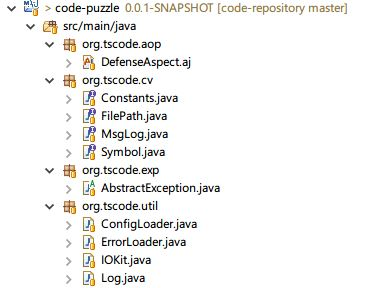
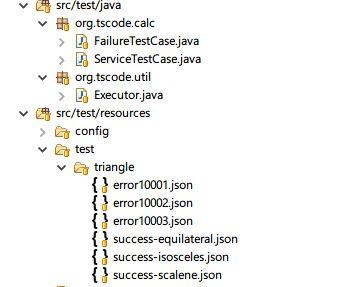
Finish the first topic document

Changed region(s): [[0.0289, 0.0, 0.896, 1.0]]

diff --git a/code-puzzle/README.md b/code-puzzle/README.md
@@ -21,7 +21,7 @@ This program is built with three modules
 
 ### 2.Configurations
 
-**Structure**
+#### 2.1.Structure
 
 	/aop/aopaj-test.properties
 	/aop/aopaj.properties
@@ -35,7 +35,7 @@ This program is built with three modules
 ![TG](docs/img/tg001.JPG)
 * **config/errors.properties**：Provide uniform error format, ( code = pattern ), all errors are defined in this file and could be configured. It's using for Debug or some errors could be put in web response to user.
 
-**Package**
+#### 2.2.Package
 
 * `org.tscode.aop`：Special package to provide all AOP features
 * `org.tscode.cv`：Constant values, all constant values are implemented with Java Interface
@@ -43,3 +43,83 @@ This program is built with three modules
 * `org.tscode.util`：Utility Tools
 * `org.tscode.shape`：All abstract shape features include Point, Line, VectorLine, Traingle ( Container ) here.
 * `org.puzzle`：All classes for current **Triangle Challenge** Topic only.
+
+#### 2.3.Core Model
+
+Package:`org.tscode.shape.core`
+
+* `Point<P>`：Include x,y,z position to provide basic point model, `P` is generic type to define any data to store in.
+* `Line<L>`：This model is only for some simple lines, the line contains `length` property, `L` is generic type to define any data to store in.
+* `VectorLine<P,L>`:This model inherit from `Line<L>`, it contains two `Point<P>` and could describe Vector, Line, Planum etc.
+* `Response`：This model contains two major parts: Data & Error, data is `Json` format and raw type of Error is AbstractException that also could be converted to `Json` format.
+
+#### 2.4.Interfaces
+
+Package:`org.puzzle`
+
+* `TriangleService`: This interface is often called by Restful Api or other high level code, based on package name it's related to **Triangle Challenge** topic
+
+Package:`org.tscode.shape`
+
+* `Calculator`：This interface provide logical process to describe how to calculate `P` in Point and `L` in Line/VectorLine. It could be replaced by different implementation. In **Triangle Challenge** topic, I defined `org.puzzle.triangle.CatCalculator` to determine whether this triangle is **Equilateral**, **Isosceles** or **Scalene**. 
+* `Planum`：Provide following two simple api to create `Shape<P,L>`, it's not generic type but provide generic method to create different Shape by Sides/Points.
+
+		/**
+		 * Create Shape -> By Sides
+		 * 
+		 * @param sides
+		 * @return
+		 */
+		<P, L> Shape<P, L> create(final int... sides) throws AbstractException;
+	
+		/**
+		 * Create Planum -> By Points
+		 * 
+		 * @param points
+		 * @return
+		 */
+		<P, L> Shape<P, L> create(final Point<P>[] points) throws AbstractException;
+* `Shape<P,L>`: Abstract Shape interface to provide basic metadata getting methods for Shape such as `getPoints, getLines, getData`. A core api for `Shape<P,L>` is `connect(Calculator<P,L> calculator)`, this api could let `Shape<P,L>` to connect different calculator to refresh the data (P,L) inner Shape object. 
+
+		/**
+		 * Shape connect to calculator will refresh Data
+		 */
+		void connect(Calculator<P, L> calculator);
+
+#### 2.5.Extensions/Issues
+
+* All user-defined exceptions could connect to `errors.properties`, there are error details we could use uniform Error Control Center to provide description for any system errors. 
+* `Shape<P,L>` provide shape container to store different Shape, not only Triangle but others. It also provide `Container` to store different data structure in Point/Line to help to resolve some problems. **Triangle Challenge** topic does not need `P,L`, so I selected `Integer` instead.
+* `Calculator` could be replaced by any user-defined or system-default calculators, the major logical should be in `Calculator Implementation`
+* `Service/Planum` should be used in **singleton** model in complex scenario.
+* I have marked `TODO` label for unfinished feature that is not used in **Triangle Challenge** topic.
+
+### 3.Test Case
+
+#### 3.1.Code Structure
+
+![TEST](docs/img/tg002.JPG)
+
+#### 3.2.Test Workflow
+
+1. Read data from `test/triangle/` folder for different scenario.
+2. `Executor` contains major testing code that could be shared between different test cases.
+3. Most of testing data format as `Json` and each case could hold more than one group inputes.
+4. Because test data format is simple, we could write some generator to produces more testing data and put into test data folder.
+
+#### 3.3.Testing Result
+
+JUnit
+
+![TEST](docs/img/tg003.JPG)
+
+Console
+
+![TEST](docs/img/tg004.JPG)
+
+### Summary
+
+Althought the topic is simple, but I designed it based on following considering
+
+1. How to extend this module to resolve actual problems that include **Triangle Challenge** topic ?
+2. How to defined this topic to produce Container concept for **Reusing** ?
